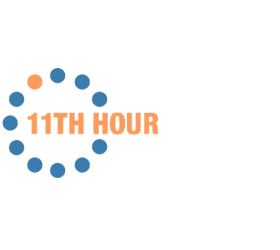
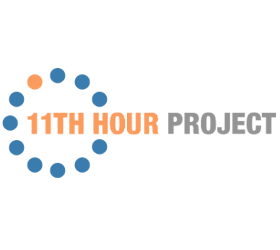
Edit sponsors page and remove white from images.

Changed region(s): [[0.6, 0.448, 1.0, 0.56]]

diff --git a/sponsors/index.html b/sponsors/index.html
@@ -15,86 +15,36 @@ sidebar: true
 </div>
 
 <div class="row sponsors">
-  <div class="col-md-3 col-xs-6 sponsor-image">
+  <div class="col-md-4 col-xs-6 sponsor-image">
     <a href="http://www.11thhourproject.org/" target="_blank"><img class="img-responsive" alt="11th Hour Project" height="250" src="{{ 'sponsors/11thhour.png' | asset_path }}" width="280"></a>
   </div>
-  <div class="col-md-3 col-xs-6 sponsor-image">
-    <a href="http://www.vimeo.com/" target="_blank">
-      <img class="img-responsive" alt="Vimeo" border="0" height="250" src="{{ 'sponsors/vimeo.png' | asset_path }}" width="244"></a>
-  </div>
-  <div class="col-md-3 col-xs-6 sponsor-image">
+  <div class="col-md-4 col-xs-6 sponsor-image">
     <a href="http://www.rickshawbags.com/" target="_blank">
       <img class="img-responsive" alt="Rickshaw Bags" border="0" height="250" src="{{ 'sponsors/rickshaw.png' | asset_path }}" width="280"></a>
   </div>
-  <div class="col-md-3 col-xs-6 sponsor-image">
-    <a href="http://coverallcrew.com/" target="_blank">
-      <img class="img-responsive" alt="Coverall Crew" border="0" height="250" src="{{ 'sponsors/coverall.png' | asset_path }}" width="280"></a>
-  </div>
-  <div class="col-md-3 col-xs-6 sponsor-image">
+  <div class="col-md-4 col-xs-6 sponsor-image">
     <a href="http://attendease.com/" target="_blank">
       <img class="img-responsive" alt="Attendease" border="0" height="250" src="{{ 'sponsors/attendease.png' | asset_path }}" width="280"></a>
   </div>
-  <div class="col-md-3 col-xs-6 sponsor-image">
-    <a href="http://www.milesmaria.com/home.html" target="_blank">
-      <img class="img-responsive" alt="Miles Maria" border="0" height="250" src="{{ 'sponsors/milesmaria.png' | asset_path }}" width="279"></a>
+  <div class="col-md-4 col-xs-6 sponsor-image">
+    <a href="http://coverallcrew.com/" target="_blank">
+      <img class="img-responsive" alt="Coverall Crew" border="0" height="250" src="{{ 'sponsors/coverall.png' | asset_path }}" width="280"></a>
   </div>
-  <div class="col-md-3 col-xs-6 sponsor-image">
+  <div class="col-md-4 col-xs-6 sponsor-image">
     <a href="http://truemarketinggroup.com/" target="_blank">
       <img class="img-responsive" alt="True Marketing Group" border="0" height="250" src="{{ 'sponsors/truemarketing.png' | asset_path }}" width="280"></a>
   </div>
-  <div class="col-md-3 col-xs-6 sponsor-image">
-    <a href="https://www.speckproducts.com/" target="_blank">
-      <img class="img-responsive" alt="Speck" border="0" height="250" src="{{ 'sponsors/speck.png' | asset_path }}" width="250"></a>
-  </div>
-  <div class="col-md-3 col-xs-6 sponsor-image">
-    <a href="http://jrusten.com" target="_blank">
-      <img class="img-responsive" alt="J. Rusten Furniture Studio" border="0" height="250" src="{{ 'sponsors/jrfs.png' | asset_path }}" width="240"></a>
-  </div>
-  <div class="col-md-3 col-xs-6 sponsor-image">
+  <div class="col-md-4 col-xs-6 sponsor-image">
     <a href="http://www.pieranch.org" target="_blank">
       <img class="img-responsive" alt="Pie Ranch" border="0" height="250" src="{{ 'sponsors/pieranch.png' | asset_path }}" width="240"></a>
   </div>
-  <div class="col-md-3 col-xs-6 sponsor-image">
+  <div class="col-md-4 col-xs-6 sponsor-image">
     <a href="http://outpostfilm.com" target="_blank">
       <img class="img-responsive" alt="Outpost Film" border="0" height="250" src="{{ 'sponsors/outpost.png' | asset_path }}" width="200"></a>
   </div>
-  <div class="col-md-3 col-xs-6 sponsor-image">
-    <a href="http://www.seedandspark.com" target="_blank">
-      <img class="img-responsive" alt="Seed and Spark" border="0" height="250" src="{{ 'sponsors/seed_and_spark.png' | asset_path }}" width="250"></a>
-  </div>
-  <div class="col-md-3 col-xs-6 sponsor-image">
-    <a href="http://www.cinematiq.com" target="_blank">
-      <img class="img-responsive" alt="Cinematiq" border="0" height="250" src="{{ 'sponsors/cinematiq.png' | asset_path }}" width="250"></a>
-  </div>
-  <div class="col-md-3 col-xs-6 sponsor-image">
+  <div class="col-md-4 col-xs-6 sponsor-image">
     <a href="http://www.consulfrance-sanfrancisco.org" target="_blank">
       <img class="img-responsive" alt="French Consulate" border="0" height="250" src="{{ 'sponsors/french-embassy.png' | asset_path }}" width="250"></a>
-  </div>
-  <div class="col-md-3 col-xs-6 sponsor-image">
-    <a href="http://www.alemanyfarm.org" target="_blank">
-      <img class="img-responsive" alt="Alemany Farm" border="0" height="250" src="{{ 'sponsors/alemany-farm.png' | asset_path }}" width="200"></a>
-  </div>
-  <div class="col-md-3 col-xs-6 sponsor-image">
-    <a href="http://foragesf.com" target="_blank">
-      <img class="img-responsive" alt="Forage SF" border="0" height="250" src="{{ 'sponsors/foragesf.png' | asset_path }}" width="250"></a>
-  </div>
-  <div class="col-md-3 col-xs-6 sponsor-image">
-    <a href="http://lyft.com" target="_blank">
-      <img class="img-responsive" alt="Lyft" border="0" height="250" src="{{ 'sponsors/lyft.png' | asset_path }}" width="200"></a>
-  </div>
-  <div class="col-md-3 col-xs-6 sponsor-image">
-    <a href="http://www.photojojo.com/" target="_blank">
-      <img class="img-responsive" alt="Photojojo" border="0" height="250" src="{{ 'sponsors/photojojo.png' | asset_path }}" width="250"></a>
-  </div>
-  <div class="col-md-3 col-xs-6 sponsor-image">
-    <img class="img-responsive" alt="Color A Go-Go" border="0" height="250" src="{{ 'sponsors/color-a-gogo.png' | asset_path }}" width="250"></div>
-  <div class="col-md-3 col-xs-6 sponsor-image">
-    <a href="http://www.purplewine.com/" target="_blank">
-      <img class="img-responsive" alt="Purple Wine Company" border="0" height="250" src="{{ 'sponsors/purple-wine.png' | asset_path }}" width="200"></a>
-  </div>
-  <div class="col-md-3 col-xs-6 sponsor-image">
-    <a href="https://typekit.com" target="_blank">
-      <img class="img-responsive" alt="Adobe TypeKit" border="0" height="250" src="{{ 'sponsors/typekit.png' | asset_path }}" width="250"></a>
   </div>
 </div>
 
@@ -111,41 +61,21 @@ sidebar: true
 </div>
 
 <div class="row sponsors">
-  <div class="col-md-3 col-xs-6 sponsor-image">
+  <div class="col-md-4 col-xs-6 sponsor-image">
     <a href="http://thebolditalic.com/" target="_blank">
       <img class="img-responsive" alt="Bold Italic" border="0" height="250" src="{{ 'sponsors/bolditalic.png' | asset_path }}" width="260"></a>
   </div>
-  <div class="col-md-3 col-xs-6 sponsor-image">
+  <div class="col-md-4 col-xs-6 sponsor-image">
     <a href="http://www.noisepop.com/" target="_blank">
       <img class="img-responsive" alt="Noise Pop" border="0" height="250" src="{{ 'sponsors/noisepop.png' | asset_path }}" width="165"></a>
   </div>
-  <div class="col-md-3 col-xs-6 sponsor-image">
-    <a href="http://www.directorslive.com/" target="_blank">
-      <img class="img-responsive" alt="Directors Live" border="0" height="250" src="{{ 'sponsors/directors-live.png' | asset_path }}" width="280"></a>
-  </div>
-  <div class="col-md-3 col-xs-6 sponsor-image">
+  <div class="col-md-4 col-xs-6 sponsor-image">
     <a href="http://www.bavc.org/" target="_blank">
       <img class="img-responsive" alt="Bay Area Video Coalition" border="0" height="250" src="{{ 'sponsors/bavc.png' | asset_path }}" width="280"></a>
   </div>
-  <div class="col-md-3 col-xs-6 sponsor-image">
+  <div class="col-md-4 col-xs-6 sponsor-image">
     <a href="http://shootingpeople.org" target="_blank">
       <img class="img-responsive" alt="Shooting People" border="0" height="250" src="{{ 'sponsors/shootingpeople_media.png' | asset_path }}" width="242"></a>
-  </div>
-  <div class="col-md-3 col-xs-6 sponsor-image">
-    <a href="http://cinemaspeakeasy.com/" target="_blank">
-      <img class="img-responsive" alt="Cinema Speakeasy" border="0" height="250" src="{{ 'sponsors/cinema_speakeasy.png' | asset_path }}" width="280"></a>
-  </div>
-  <div class="col-md-3 col-xs-6 sponsor-image">
-    <a href="http://www.sfstation.com/" target="_blank">
-      <img class="img-responsive" alt="SF Station" border="0" height="250" src="{{ 'sponsors/sfstation.png' | asset_path }}" width="250"></a>
-  </div>
-  <div class="col-md-3 col-xs-6 sponsor-image">
-    <a href="mailto:info@disposablefilm.com"}
-      <button class="sponsor">
-        Looking for a great story?
-        <br />
-        Become a media partner
-      </button></a>
   </div>
 </div>
 
@@ -162,75 +92,60 @@ sidebar: true
 </div>
 
 <div class="row sponsors">
-  <div class="col-md-3 col-xs-6 sponsor-image">
-    <a href="http://www.sffs.org/" target="_blank">
-      <img class="img-responsive" alt="San Franciso Film Society" border="0" height="250" src="{{ 'sponsors/sffs.png' | asset_path }}" width="250"></a>
-  </div>
-  <div class="col-md-3 col-xs-6 sponsor-image">
-    <a href="http://www.slamdance.com/" target="_blank">
-      <img class="img-responsive" alt="Slamdance" border="0" height="250" src="{{ 'sponsors/slamdance.png' | asset_path }}" width="242"></a>
-  </div>
-  <div class="col-md-3 col-xs-6 sponsor-image">
-    <a href="http://popmontreal.com/" target="_blank">
-      <img class="img-responsive" alt="Pop Montreal" border="0" height="250" src="{{ 'sponsors/pop_montreal.png' | asset_path }}" width="151"></a>
-  </div>
-  <div class="col-md-3 col-xs-6 sponsor-image">
-    <a href="http://www.explodingcinema.org/" target="_blank">
-      <img class="img-responsive" alt="Exploding Cinema" border="0" height="250" src="{{ 'sponsors/explodingcinema.png' | asset_path }}" width="136"></a>
-  </div>
-  <div class="col-md-3 col-xs-6 sponsor-image">
-    <a href="http://www.cambridgefilmfestival.org.uk/" target="_blank">
-      <img class="img-responsive" alt="Cambridge Film Festival" border="0" height="250" src="{{ 'sponsors/cambridge.png' | asset_path }}" width="155"></a>
-  </div>
-  <div class="col-md-3 col-xs-6 sponsor-image">
-    <a href="http://www.cinepocket.be/" target="_blank">
-      <img class="img-responsive" alt="Cinepocket" border="0" height="250" src="{{ 'sponsors/cinepocket.png' | asset_path }}" width="152"></a>
-  </div>
-  <div class="col-md-3 col-xs-6 sponsor-image">
-    <a href="http://lowellfilmcollaborative.org/" target="_blank">
-      <img class="img-responsive" alt="Lowell Films" border="0" height="250" src="{{ 'sponsors/lowell.png' | asset_path }}" width="242"></a>
-  </div>
-  <div class="col-md-3 col-xs-6 sponsor-image">
-    <a href="http://www.cinemaoutofyourbackpack.com/" target="_blank">
-      <img class="img-responsive" alt="Cinema Out of Your Backpack Festival" border="0" height="250" src="{{ 'sponsors/backpack_fest.png' | asset_path }}" width="216"></a>
-  </div>
-  <div class="col-md-3 col-xs-6 sponsor-image">
-    <a href="http://www.peacheschrist.com/?cat=16" target="_blank">
-      <img class="img-responsive" alt="SAN FRANCISCO UNDERGROUND SHORT FILM FESTIVAL" border="0" height="250" src="{{ 'sponsors/sf-underground.png' | asset_path }}" width="240"></a>
-  </div>
-  <div class="col-md-3 col-xs-6 sponsor-image">
-    <a href="http://sheffdocfest.com" target="_blank">
-      <img class="img-responsive" alt="Sheffield Doc/Fest" border="0" height="250" src="{{ 'sponsors/sheffield.png' | asset_path }}" width="216"></a>
-  </div>
-  <div class="col-md-3 col-xs-6 sponsor-image">
-    <a href="http://goodvibesquickies.com" target="_blank">
-      <img class="img-responsive" alt="Quickies" border="0" height="250" src="{{ 'sponsors/quickies_ixff_2013.png' | asset_path }}" width="216"></a>
-  </div>
-  <div class="col-md-3 col-xs-6 sponsor-image">
-    <a href="http://15secondphonefest.com" target="_blank">
-      <img class="img-responsive" alt="15 Second Phone Fest" border="0" height="250" src="{{ 'sponsors/15-sec-phone-film-fest.png' | asset_path }}" width="250"></a>
-  </div>
-  <div class="col-md-3 col-xs-6 sponsor-image">
+  <div class="col-md-4 col-xs-6 sponsor-image">
     <a href="http://mobilefilmfestival.com" target="_blank">
       <img class="img-responsive" alt="Mobile Film Fest" border="0" height="250" src="{{ 'sponsors/mobile-film-fest.png' | asset_path }}" width="250"></a>
   </div>
-  <div class="col-md-3 col-xs-6 sponsor-image">
+  <div class="col-md-4 col-xs-6 sponsor-image">
     <a href="http://www.solar1.org/" target="_blank">
       <img class="img-responsive" alt="Solar One" border="0" height="250" src="{{ 'sponsors/solarone.png' | asset_path }}" width="225"></a>
   </div>
-  <div class="col-md-3 col-xs-6 sponsor-image">
+  <div class="col-md-4 col-xs-6 sponsor-image">
     <a href="http://www.sesiff.org/" target="_blank">
       <img class="img-responsive" alt="Seoul International Extreme Short Image and Film Festival" border="0" height="250" src="{{ 'sponsors/sesiff.png' | asset_path }}" width="225"></a>
   </div>
-  <div class="col-md-3 col-xs-6 sponsor-image">
+  <div class="col-md-4 col-xs-6 sponsor-image">
+    <a href="http://www.explodingcinema.org/" target="_blank">
+      <img class="img-responsive" alt="Exploding Cinema" border="0" height="250" src="{{ 'sponsors/explodingcinema.png' | asset_path }}" width="136"></a>
+  </div>
+  <div class="col-md-4 col-xs-6 sponsor-image">
+    <a href="http://sheffdocfest.com" target="_blank">
+      <img class="img-responsive" alt="Sheffield Doc/Fest" border="0" height="250" src="{{ 'sponsors/sheffield.png' | asset_path }}" width="216"></a>
+  </div>
+  <div class="col-md-4 col-xs-6 sponsor-image">
+    <a href="http://www.sffs.org/" target="_blank">
+      <img class="img-responsive" alt="San Franciso Film Society" border="0" height="250" src="{{ 'sponsors/sffs.png' | asset_path }}" width="250"></a>
+  </div>
+  <div class="col-md-4 col-xs-6 sponsor-image">
+    <a href="http://www.slamdance.com/" target="_blank">
+      <img class="img-responsive" alt="Slamdance" border="0" height="250" src="{{ 'sponsors/slamdance.png' | asset_path }}" width="242"></a>
+  </div>
+  <div class="col-md-4 col-xs-6 sponsor-image">
+    <a href="http://www.cambridgefilmfestival.org.uk/" target="_blank">
+      <img class="img-responsive" alt="Cambridge Film Festival" border="0" height="250" src="{{ 'sponsors/cambridge.png' | asset_path }}" width="155"></a>
+  </div>
+  <div class="col-md-4 col-xs-6 sponsor-image">
+    <a href="http://popmontreal.com/" target="_blank">
+      <img class="img-responsive" alt="Pop Montreal" border="0" height="250" src="{{ 'sponsors/pop_montreal.png' | asset_path }}" width="151"></a>
+  </div>
+  <div class="col-md-4 col-xs-6 sponsor-image">
+    <a href="http://www.cinepocket.be/" target="_blank">
+      <img class="img-responsive" alt="Cinepocket" border="0" height="250" src="{{ 'sponsors/cinepocket.png' | asset_path }}" width="152"></a>
+  </div>
+  <div class="col-md-4 col-xs-6 sponsor-image">
+    <a href="http://lowellfilmcollaborative.org/" target="_blank">
+      <img class="img-responsive" alt="Lowell Films" border="0" height="250" src="{{ 'sponsors/lowell.png' | asset_path }}" width="242"></a>
+  </div>
+  <div class="col-md-4 col-xs-6 sponsor-image">
+    <a href="http://www.cinemaoutofyourbackpack.com/" target="_blank">
+      <img class="img-responsive" alt="Cinema Out of Your Backpack Festival" border="0" height="250" src="{{ 'sponsors/backpack_fest.png' | asset_path }}" width="216"></a>
+  </div>
+  <div class="col-md-4 col-xs-6 sponsor-image">
+    <a href="http://www.peacheschrist.com/?cat=16" target="_blank">
+      <img class="img-responsive" alt="SAN FRANCISCO UNDERGROUND SHORT FILM FESTIVAL" border="0" height="250" src="{{ 'sponsors/sf-underground.png' | asset_path }}" width="240"></a>
+  </div>
+  <div class="col-md-4 col-xs-6 sponsor-image">
     <a href="http://realfoodmedia.org" target="_blank">
       <img class="img-responsive" alt="Real Food Media Contest" border="0" height="250" src="{{ 'sponsors/rfmc.png' | asset_path }}" width="250"></a>
-  </div>
-</div>
-
-<div class="row">
-  <div class="col-xs-12">
-    <h3>Become a Sponsor</h3>
-    <p>There are many ways to support The Disposable Film Festival. Learn more about sponsorship.<br><a href="mailto:info@disposablefilm.com">Contact the team</a></p>
   </div>
 </div>

diff --git a/_assets/stylesheets/subpages.scss b/_assets/stylesheets/subpages.scss
@@ -1,7 +1,7 @@
 @import 'constants';
 @import 'mixins';
 
-.headline
+.headline, .sponsor-headline
 {
   border-bottom: 3px solid #000;
   margin-bottom: 20px;
@@ -15,7 +15,7 @@
 
 body.page-sponsors
 {
-  .headline
+  .headline, .sponsor-headline
   {
     .become-a-sponsor
     {
@@ -31,6 +31,7 @@ body.page-sponsors
   .sponsor-image
   {
     text-align: center;
+    vertical-align: top;
     height: 286px;
     padding: 18px;
   }
